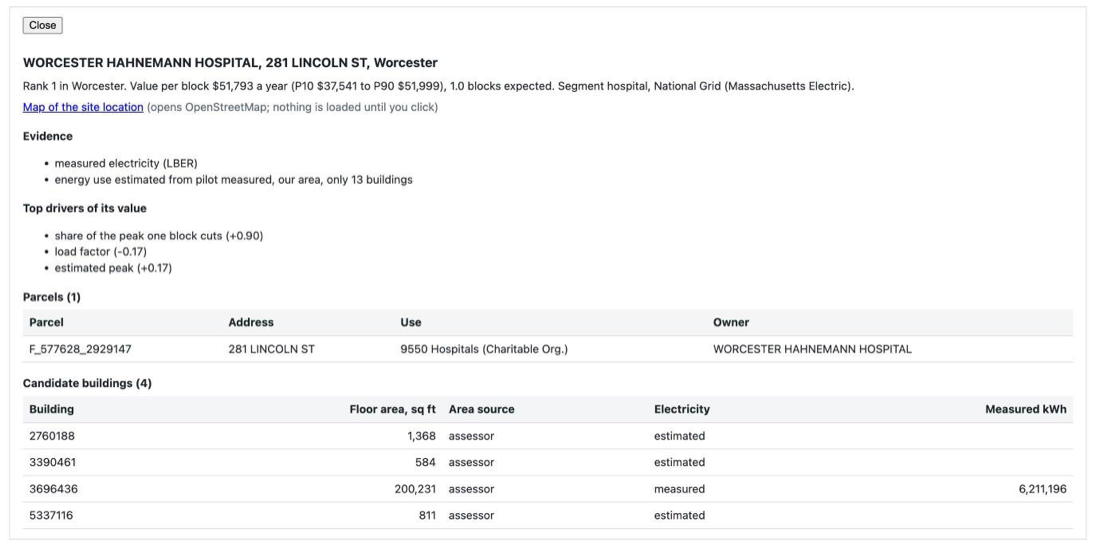
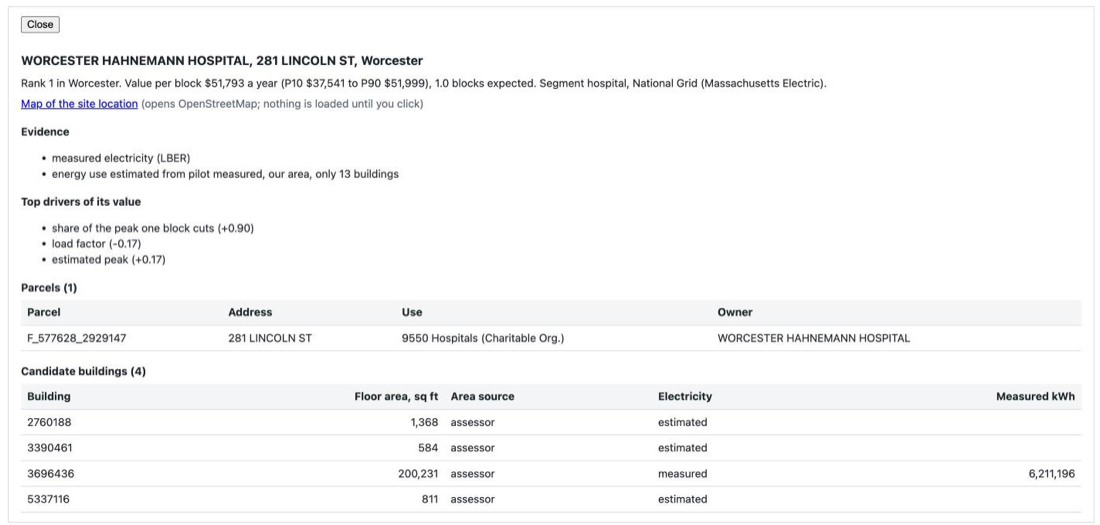
fix(report): fit the ranked table to a laptop-width window
Every table header was nowrap, so "With ConnectedSolutions" and
"ConnectedSolutions share" set two wide columns and the data quality
column was squeezed to 99 px: rows grew to about 200 px and the table
scrolled sideways inside the 1,400 px page. Headers now wrap, with a
<wbr> in the program name and a non-breaking space before the sort
arrow; the data quality column has a 16em minimum; the page is up to
1,680 px wide. At a 1,470 px window the table fits and the median row
is 83 px (Metro South) and 71 px (Worcester).

The README screenshots are retaken from a local-only server, each
under 300 KB.

diff --git a/prospect/report/app.js b/prospect/report/app.js
@@ -82,18 +82,20 @@
     return rows;
   }
 
+  // Header labels are HTML: <wbr> lets the long program name break in a
+  // narrow column, so the table fits a laptop-width window.
   const COLUMNS = [
     ["rank", "Rank", (r) => r.rank, "num"],
     ["owner", "Owner", (r) => r.site.owner || ""],
     ["town", "Town", (r) => r.site.town],
     ["segment", "Segment", (r) => r.site.segment],
     ["value", "Value per block, P50", (r) => r.main.value_per_block.p50, "num"],
-    ["with_cs", "With ConnectedSolutions", (r) => r.with_cs.value_per_block.p50, "num"],
+    ["with_cs", "With Connected<wbr>Solutions", (r) => r.with_cs.value_per_block.p50, "num"],
     ["demand_only", "Demand savings only", (r) => r.demand_only.value_per_block.p50, "num"],
     ["percentile", "Percentile in region", (r) => r.percentile, "num"],
     ["blocks", "Blocks", (r) => r.main.blocks, "num"],
     ["total", "Total, P50", (r) => r.main.total.p50, "num"],
-    ["cs_share", "ConnectedSolutions share", (r) => r.main.streams.connected_solutions.share, "num"],
+    ["cs_share", "Connected<wbr>Solutions share", (r) => r.main.streams.connected_solutions.share, "num"],
     ["size_rank", "Size-only rank", (r) => r.site.size_rank, "num"],
     ["moved", "Moved", (r) => r.moved, "num"],
   ];
@@ -138,7 +140,7 @@
     });
     const head = COLUMNS.map(
       (c) => '<th class="' + (c[3] || "") + '" data-key="' + c[0] + '">' + c[1] +
-        (state.sort === c[0] ? (state.dir > 0 ? " ▲" : " ▼") : "") + "</th>"
+        (state.sort === c[0] ? (state.dir > 0 ? "&nbsp;▲" : "&nbsp;▼") : "") + "</th>"
     ).join("") + "<th>Data quality</th>";
     const body = rows.map((r, i) =>
       '<tr data-i="' + i + '" tabindex="0">' + COLUMNS.map((c) => '<td class="' + (c[3] || "") + '">' + cell(c[0], r) + "</td>").join("") +

diff --git a/prospect/report/style.css b/prospect/report/style.css
@@ -15,7 +15,7 @@ body {
   color: var(--ink);
   background: var(--bg);
 }
-header, main, footer { padding: 16px 24px; max-width: 1400px; margin: 0 auto; }
+header, main, footer { padding: 16px 24px; max-width: 1680px; margin: 0 auto; }
 h1 { font-size: 20px; margin: 0 0 4px; }
 h2 { font-size: 16px; margin: 24px 0 8px; }
 p { margin: 6px 0; }
@@ -28,11 +28,13 @@ button.region[aria-pressed="true"] { background: var(--accent); color: #fff; bor
 .table-wrap { overflow-x: auto; }
 table { border-collapse: collapse; width: 100%; }
 th, td { padding: 6px 8px; border-bottom: 1px solid var(--line); text-align: left; vertical-align: top; }
-th { position: sticky; top: 0; background: var(--band); cursor: pointer; white-space: nowrap; }
-th.num, td.num { text-align: right; white-space: nowrap; }
+th { position: sticky; top: 0; background: var(--band); cursor: pointer; vertical-align: bottom; min-width: 4.5em; }
+th.num { text-align: right; }
+td.num { text-align: right; white-space: nowrap; }
 tbody tr:hover { background: var(--band); }
 .band { color: var(--muted); font-size: 12px; }
 .flags { font-size: 12px; color: var(--muted); }
+td.flags { min-width: 16em; }
 @media (max-width: 720px) {
   header, main, footer { padding: 12px; }
   .hide-narrow { display: none; }

diff --git a/PLAN.md b/PLAN.md
@@ -1144,6 +1144,16 @@ on a phone, since the branch is not pushed.
       unconfirmed Eversource rate area, Worcester a tier near the
       one-block ceiling), what is unvalidated, the nine open questions and
       the two claims to check.
+- [x] `fix(report): fit the ranked table to a laptop-width window`
+      Added at the owner's request after review. Every header was nowrap,
+      so the long ConnectedSolutions labels set the column widths and the
+      data quality column was squeezed to 99 px, making rows about 200 px
+      tall and the table scroll sideways inside a 1,400 px page. Headers
+      now wrap (a <wbr> breaks the program name, the sort arrow stays on
+      its label), the data quality column has a 16em minimum, and the
+      page is up to 1,680 px wide. At a 1,470 px window the table fits
+      with no sideways scroll and the median row is 83 px in Metro South
+      and 71 px in Worcester. The README screenshots are retaken.
 
 ---
 
